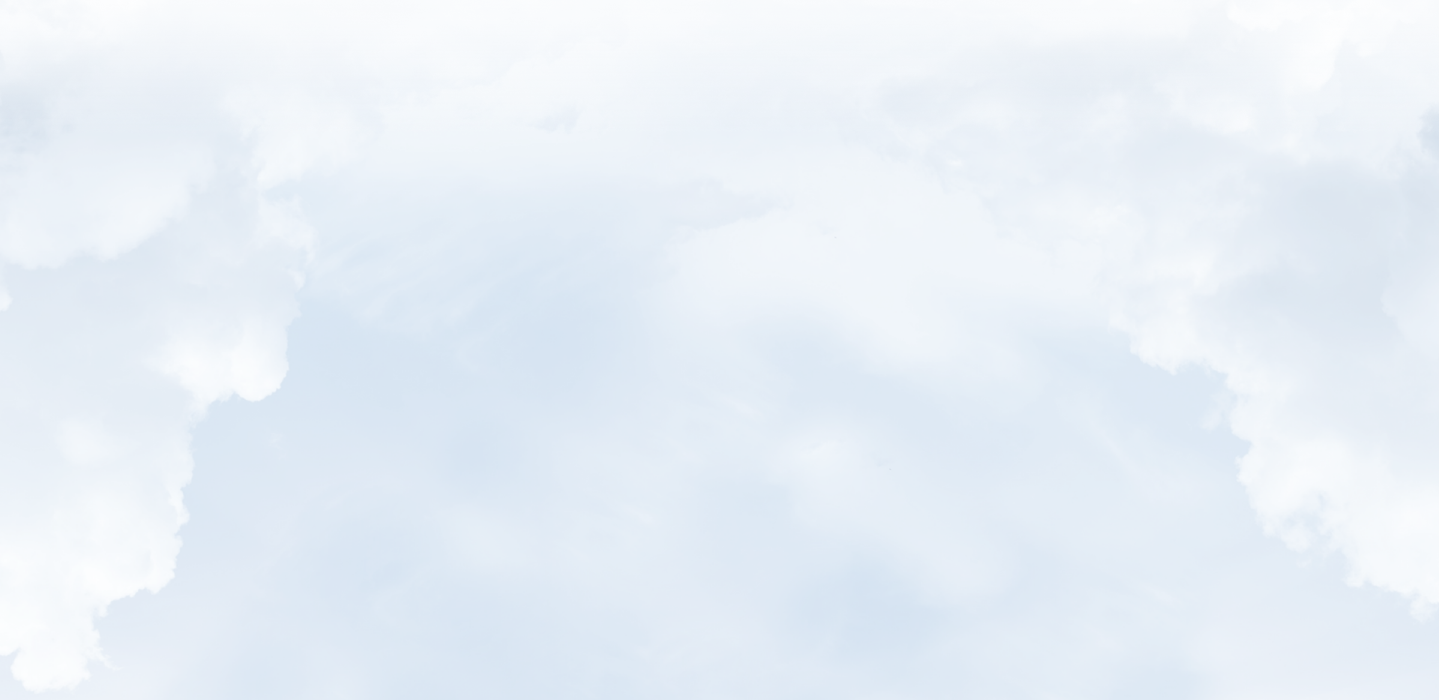
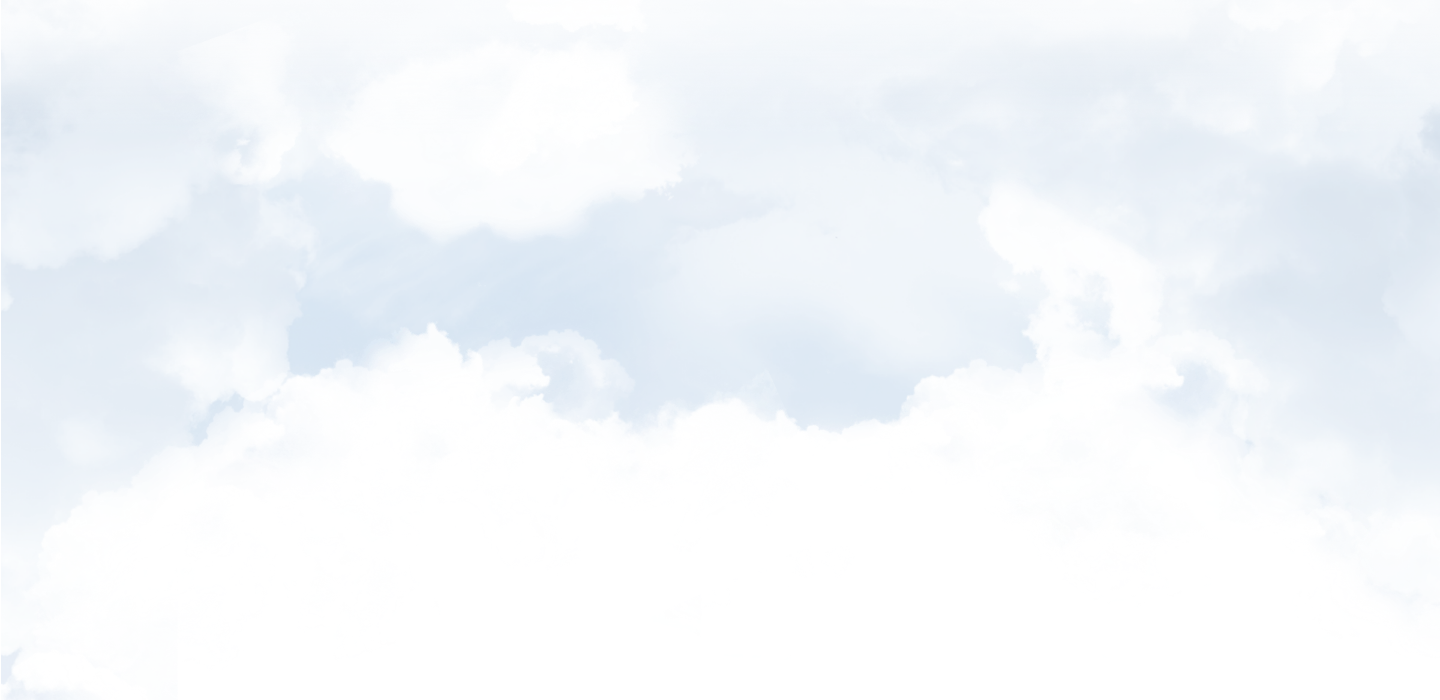
fix: some slider and style fixes

diff --git a/src/components/AppSlider.vue b/src/components/AppSlider.vue
@@ -5,17 +5,19 @@
       class="app-slider__container"
       :options="sliderOptions"
       @slide-change="emitSlideChange"
+      @set-translate="setSkyTranslate"
     >
       <swiper-slide
-        v-for="slide in slideList"
-        :key="slide.id"
+        v-for="slideListItem in slideList"
+        :key="slideListItem.id"
         class="swiper-slide app-slider__slide"
       >
         <div class="app-slider__img-box">
-          <img class="app-slider__img" :src="slide.image" alt="slide" />
+          <img class="app-slider__img" :src="slideListItem.image" alt="slide" />
         </div>
+        <img class="app-slider__bg-img" src="@/assets/images/frontClouds.png" />
         <p class="app-slider__slide-content">
-          {{ slide.text }}
+          {{ slideListItem.text }}
         </p>
       </swiper-slide>
     </swiper>
@@ -32,6 +34,12 @@ export default {
     Swiper,
     SwiperSlide,
   },
+
+  // data() {
+  //   return {
+  //     skyTranslate: 0,
+  //   }
+  // },
 
   props: {
     slideList: {
@@ -56,6 +64,12 @@ export default {
       }
     },
 
+    // getSkyTranslate() {
+    //   return {
+    //     transform: `translate3d(${this.skyTranslate * -1}px, 0px, 0px)`,
+    //   }
+    // },
+
     slider() {
       return this.$refs.slider
     },
@@ -68,6 +82,10 @@ export default {
 
       this.$emit("slideChange", { activeIndex, isEndSlide })
     },
+
+    // setSkyTranslate(evt) {
+    //   this.skyTranslate = evt
+    // },
 
     slide(direction) {
       switch (direction) {
@@ -89,7 +107,8 @@ export default {
 .app-slider {
   @include container;
 
-  width: 900px;
+  width: 70%;
+  height: 370px;
   margin: 0 auto;
   overflow: hidden;
 
@@ -105,8 +124,8 @@ export default {
 
 .app-slider__img-box {
   width: 100%;
-  max-width: 303px;
-  height: 214px;
+  max-width: 35%;
+  height: 35%;
   margin: 0 auto;
   overflow: hidden;
 }
@@ -119,8 +138,23 @@ export default {
   line-height: 0;
 }
 
+.app-slider__bg-img {
+  position: fixed;
+
+  top: 0;
+
+  width: 100%;
+  margin: 0 auto;
+
+  line-height: 0;
+
+  pointer-events: none;
+}
+
 .app-slider__slide-content {
   @include container;
+
+  position: relative;
 
   display: block;
   width: 100%;

diff --git a/src/views/PageHome.vue b/src/views/PageHome.vue
@@ -11,9 +11,6 @@
         <IconArrowLong class="home__link-scroll-icon" />
       </template>
     </AppLink>
-    <AppLink class="home__link-menu" :data-item="linkKinopoisk" icon="right">
-      <template> <AppSideMenu class="home__side-menu" /></template>
-    </AppLink>
     <AppLink class="home__link-promo" :data-item="linkKinopoisk" icon="right">
       <template #default>Искать промокод</template>
       <template #icon>
@@ -27,7 +24,6 @@
 import ThePageHomeSlider from "@/components/ThePageHomeSlider"
 import AppTitle from "@/components/AppTitle"
 import AppLink from "@/components/AppLink"
-import AppSideMenu from "@/components/AppSideMenu"
 import IconArrowLong from "@/components/icons/IconArrowLong"
 import IconArrowShort from "@/components/icons/IconArrowShort"
 
@@ -38,7 +34,6 @@ export default {
     ThePageHomeSlider,
     IconArrowLong,
     IconArrowShort,
-    AppSideMenu,
     AppTitle,
     AppLink,
   },
@@ -76,7 +71,6 @@ export default {
 
 .home__link-scroll {
   position: absolute;
-  bottom: -30%;
   left: -3%;
   z-index: 10;
 

diff --git a/src/App.vue b/src/App.vue
@@ -1,4 +1,4 @@
-<template>
+<template class="app-bg">
   <div id="app" class="app">
     <TheHeader class="app__header" />
     <router-view />
@@ -18,12 +18,16 @@ export default {
 
 <style lang="scss">
 .app {
-  position: fixed;
+  display: flex;
+  flex-direction: column;
+  align-content: center;
+  height: 100vh;
+  min-height: 500px;
+  max-height: 700px;
 
-  width: 100%;
-  height: 100%;
-
-  background: url("@/assets/images/banner.png");
-  background-size: 100% 100%;
+  background-image: url("~assets/images/banner.png");
+  background-repeat: no-repeat;
+  background-position: center center;
+  background-size: cover;
 }
 </style>

diff --git a/src/components/ThePageHomeSlider.vue b/src/components/ThePageHomeSlider.vue
@@ -81,10 +81,11 @@ export default {
 
 .page-home-slider__slider-progress {
   position: absolute;
-  top: 0;
+  top: -20px;
   left: 50%;
+  z-index: 10px;
 
-  transform: translate(0, -50%);
+  transform: translate(-50%, -100%);
 }
 
 .page-home-slider__slider-control {
@@ -94,13 +95,20 @@ export default {
   transform: translate(-50%, 0%);
 
   &_left {
-    left: 10%;
+    left: 0;
 
     transform: rotate(180deg);
   }
 
   &_right {
-    right: 10%;
+    right: 0;
   }
+}
+
+.page-home-slider__sky {
+  position: absolute;
+  top: 50%;
+  left: 50%;
+  z-index: 100;
 }
 </style>

diff --git a/src/components/AppSideMenu.vue b/src/components/AppSideMenu.vue
@@ -5,14 +5,14 @@
 </template>
 
 <script>
-import AppSideMenuItem from "@/components/AppMenuItem"
+import AppSideMenuItem from "@/components/AppSideMenuItem"
 import IconMenuItem from "@/components/icons/IconMenuItem"
 
 export default {
   name: "AppSideMenuItem",
 
   components: {
-    AppMenuItem,
+    AppSideMenuItem,
     IconMenuItem,
   },
 }

diff --git a/src/components/TheHeader.vue b/src/components/TheHeader.vue
@@ -25,14 +25,15 @@ export default {
 
 <style lang="scss">
 .header {
-  @include container;
-
   position: relative;
 
   display: flex;
   align-items: center;
   justify-content: center;
 
+  width: 100%;
+  max-width: 1440px;
+  margin: 0 auto;
   padding: 24px 34px;
 }
 

diff --git a/src/components/TheTitle.vue b/src/components/TheTitle.vue
@@ -16,9 +16,9 @@ export default {
 }
 
 .title__caption {
-  @include caption-h1;
+  // @include caption-h1;
 
-  margin-bottom: $space-m;
+  // margin-bottom: $space-m;
 
   color: $var-color-black;
   text-align: center;

diff --git a/src/components/AppSideMenuItem.vue b/src/components/AppSideMenuItem.vue
@@ -19,7 +19,7 @@ export default {
 </script>
 
 <style lang="scss">
-// .burger {
+// .menu-item__icon-box {
 //   display: block;
 //   margin: 0;
 //   padding: 0;

diff --git a/src/components/AppSliderControl.vue b/src/components/AppSliderControl.vue
@@ -29,7 +29,7 @@ export default {
 <style lang="scss">
 .slider-control {
   display: block;
-  margin: 0;
+  margin: 5%;
   padding: 0;
 
   background: none;
